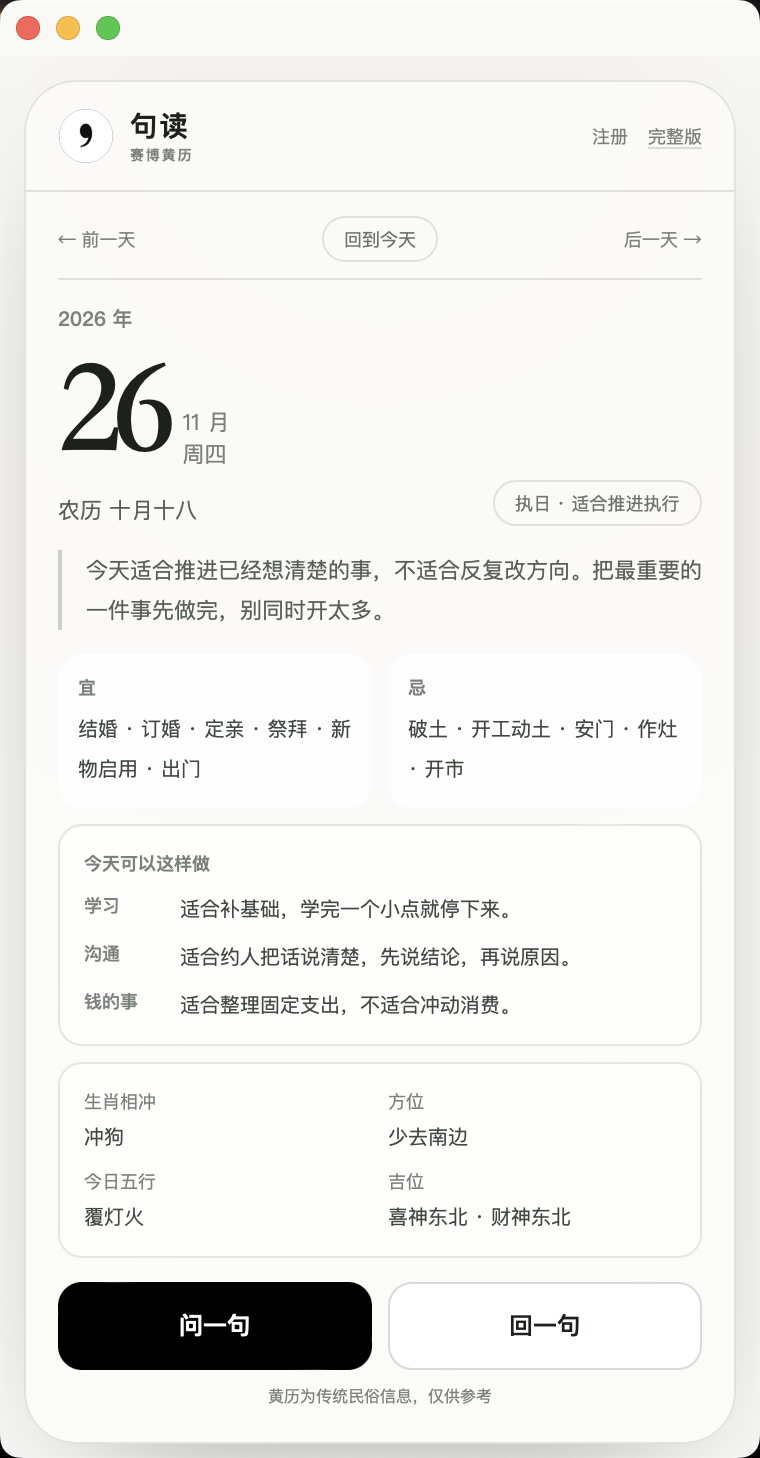
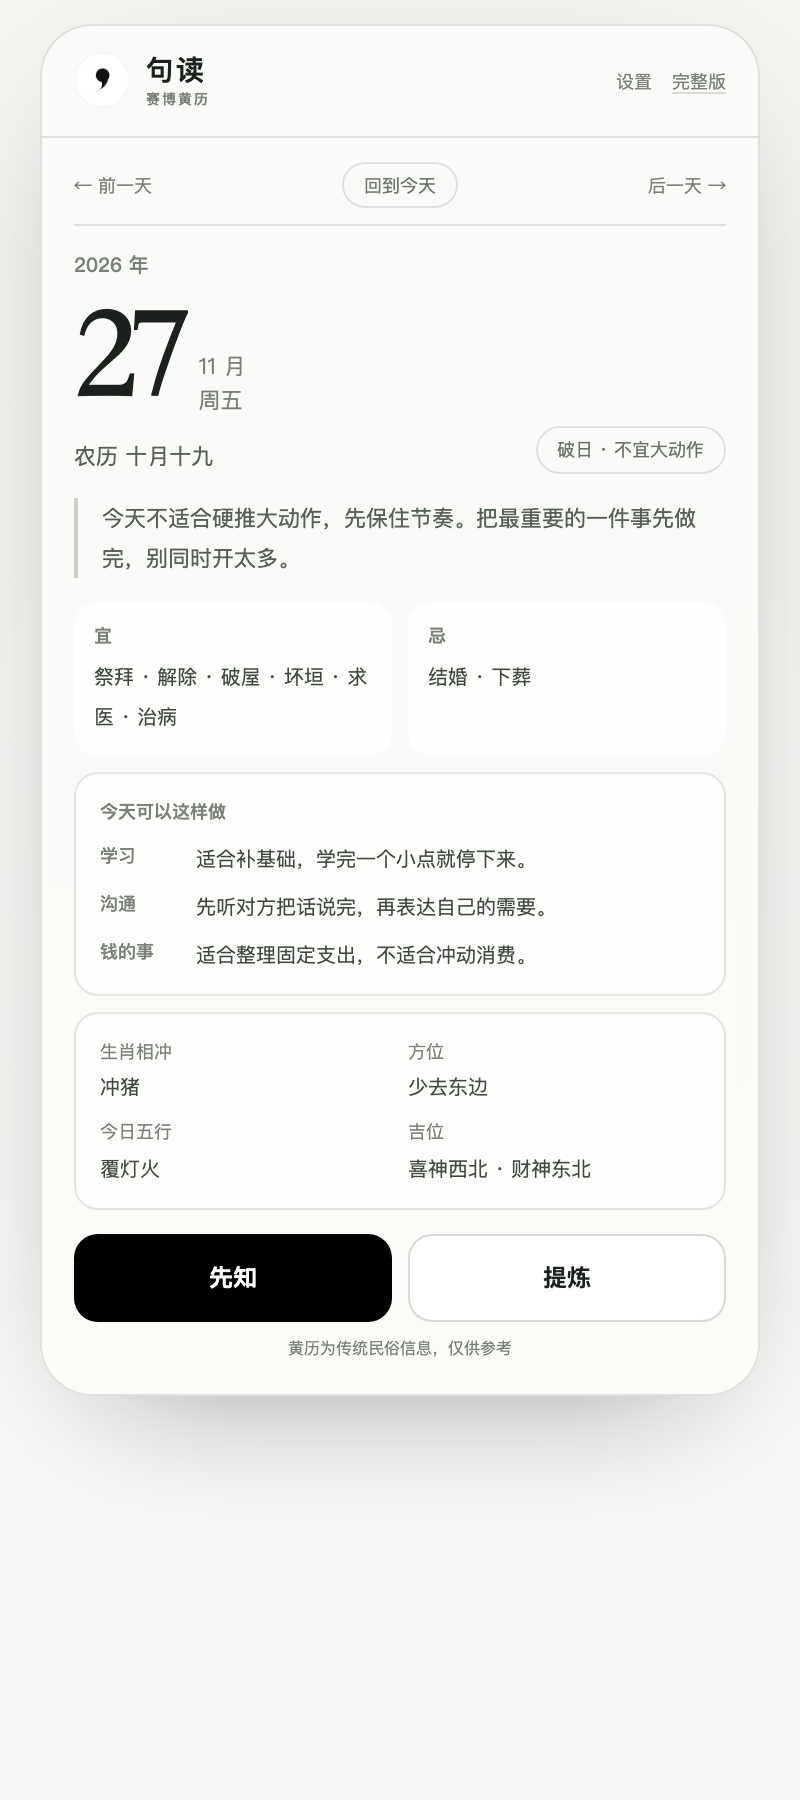
加一键截图脚本；展示图清理为当前 5 张
- scripts/capture-screenshots.mjs：自动起服务 + 无头 Chrome 截 home/summary/ask/widget/widget-wide
- 新增「重新截图.command」，双击即可重出全部展示图
- npm run shots 等价命令
- 删除已下线模块的旧截图，README 图片引用同步
- 修复截图脚本里的临时 profile 忽略规则

diff --git a/修改说明.md b/修改说明.md
@@ -1,0 +1,49 @@
+# 句读 · 项目包说明
+
+这个文件夹就是完整项目，双击 `重新截图.command` 可以一键重新生成所有展示图。
+
+## 展示图在哪
+
+```
+preview/
+├── home-mobile.png      首页（移动端）
+├── summary-mobile.png   提炼结果
+├── ask-mobile.png       先知 / 合盘
+├── widget.png           桌面小组件（窄）
+├── widget-wide.png      桌面小组件（宽 / 两栏）
+```
+
+`README.md` 引用的就是这几个文件名（`preview/xxx.png`）。**换图只要保持同名覆盖即可**，不用改任何代码。
+
+## 三种改法
+
+1. **只换图**：把新图导出成同名文件，覆盖 `preview/` 里的旧图。
+2. **界面改了、要重截**：双击 `重新截图.command`，它会自动起服务、用无头 Chrome 截图，跑完自动打开 `preview/`。
+3. **要改文案/布局**：`app/page.tsx` 是主工作台，`app/widget/page.tsx` 是桌面小组件，`components/` 是各个卡片。
+
+## 命令行等价写法
+
+```bash
+npm install          # 第一次
+npm run build        # 改完界面后
+npm run shots        # 重新截图（等价于双击那个 .command）
+npm run dev          # 本地预览 http://localhost:3000
+```
+
+## 桌面小组件
+
+```bash
+npm run build
+zsh desktop-widget/build-app.sh
+open "desktop-widget/句读JUDOU.app"
+```
+
+## 提交到 GitHub
+
+```bash
+git add -A
+git commit -m "更新展示图"
+git push
+```
+
+仓库：https://github.com/zhulian33/judou

diff --git a/README.md b/README.md
@@ -6,7 +6,8 @@
 
 <p>
   <img src="preview/home-mobile.png" width="240" alt="主页" />
-  <img src="preview/result-mobile.png" width="240" alt="解读结果" />
+  <img src="preview/summary-mobile.png" width="240" alt="提炼结果" />
+  <img src="preview/ask-mobile.png" width="240" alt="先知" />
   <img src="preview/widget.png" width="220" alt="桌面小组件" />
 </p>
 
@@ -65,7 +66,7 @@
 │   ├── summarizeDemo.ts        # 无模型时的提炼兜底
 │   └── rateLimit.ts            # 单实例内存限流
 ├── desktop-widget/             # macOS Swift + WKWebView 桌面端
-└── preview/                    # 界面截图
+└── preview/                    # 展示图（npm run shots 重新生成）
 ```
 
 数据流：
